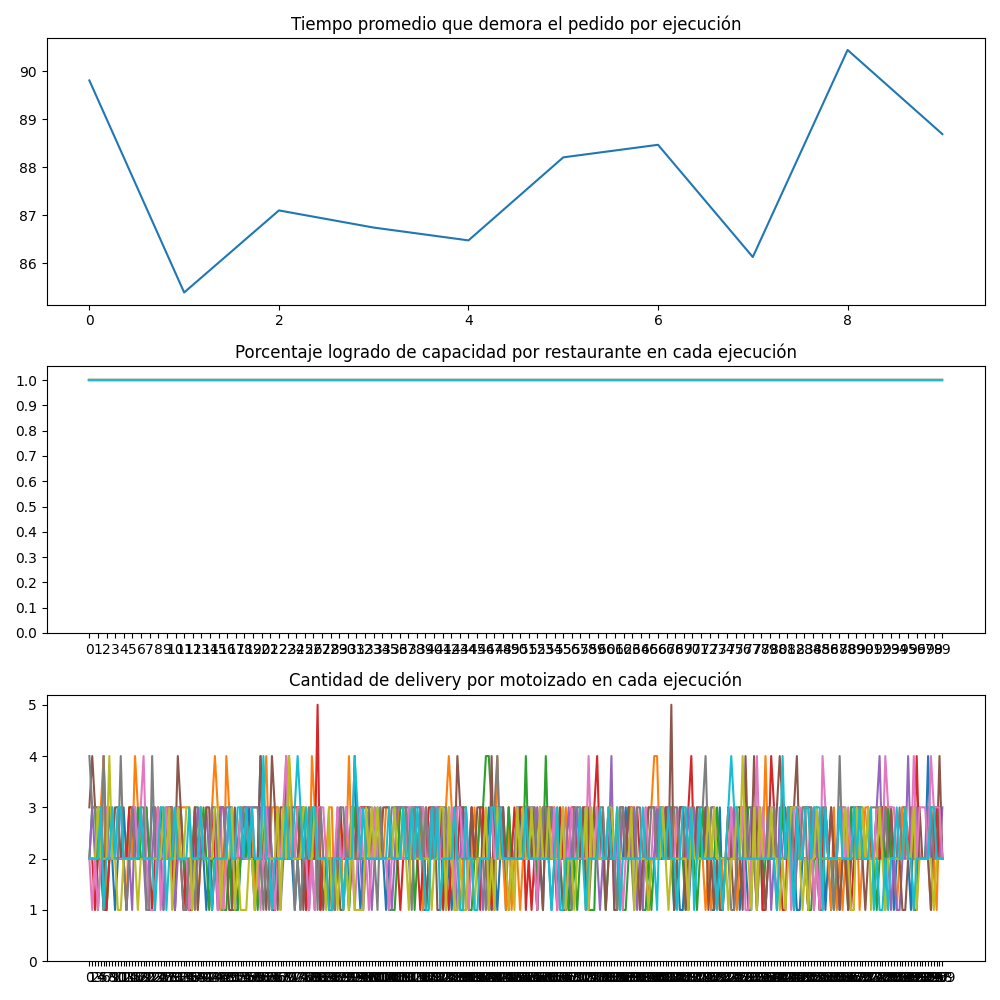
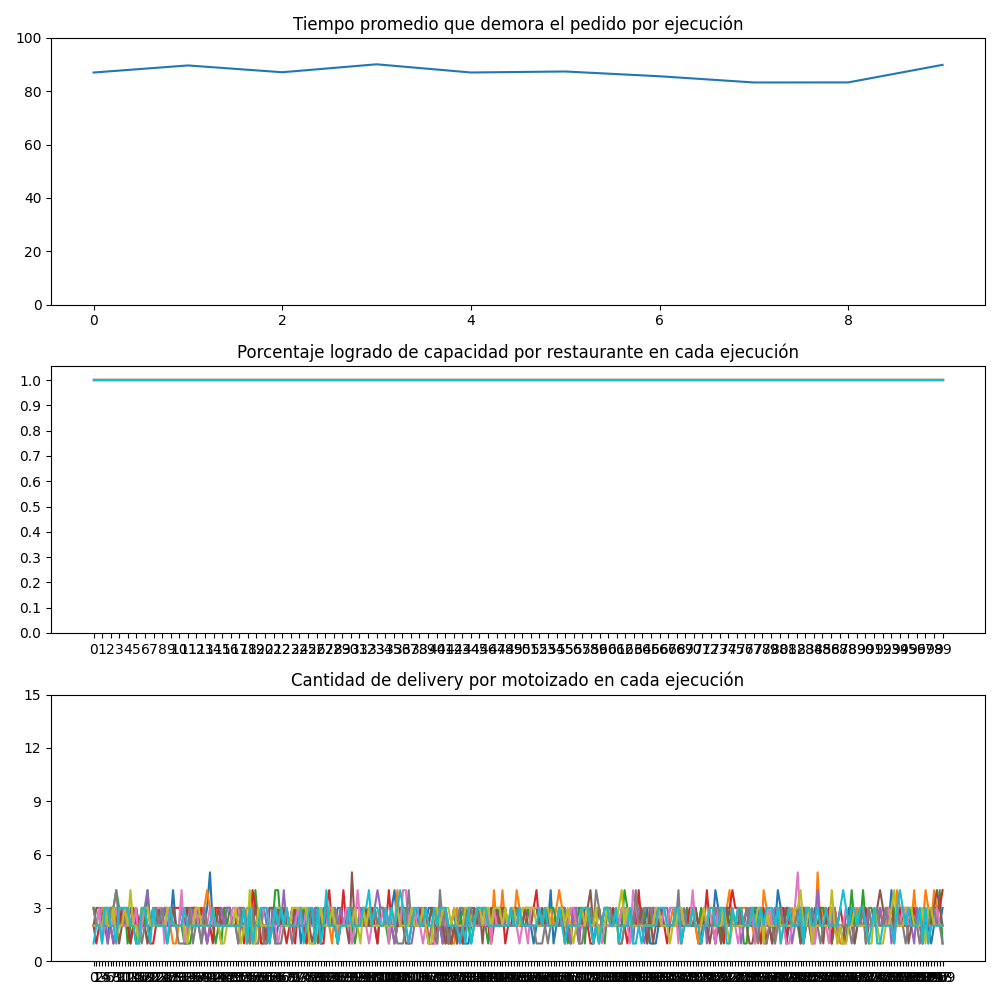
update

diff --git a/main.py b/main.py
@@ -148,12 +148,12 @@ def generate_2d_graph(n, coef=False, delete=True, show=False):
     
     graph.remove_edges_from(list(nx.isolates(graph)))
     graph.remove_nodes_from(list(nx.isolates(graph)))
-    pos = nx.spring_layout(graph, iterations=100)
+    # pos = nx.spring_layout(graph, iterations=100)
 
     graph = graph.to_directed()
 
     if show:
-        nx.draw(graph, pos, node_color='b', node_size=20, with_labels=False)
+        # nx.draw(graph, pos, node_color='b', node_size=20, with_labels=False)
         plt.title('Road Network')
         plt.show()
 
@@ -513,17 +513,21 @@ class App:
 
     def run(self, steps):
 
-        game = Game(800, 600, self.grid, "Hola mundo")
+        #game = Game(800, 600, self.grid, "Hola mundo")
         
         for i in range(steps):
-            time.sleep(0.5)
+
             # Render pygame
+            """
+            time.sleep(0.5)
             game.events_check()
             game.print_system()
             pygame.display.update()
+            """
 
-            print('-' * 30)
-            print(timetostring(i))
+
+            #print('-' * 30)
+            #print(timetostring(i))
 
             for a in agentList:
                 a.decide()
@@ -532,8 +536,10 @@ class App:
 
             
 
+            """
             for a in agentList:
                 a.to_state()
+            """
 
         self.time_food()
         self.time_restaurant()
@@ -575,7 +581,7 @@ def print_general_status(steps, nrestaurants, ndistributors):
     axes[0].set_title('Tiempo promedio que demora el pedido por ejecución')
     x = np.arange(steps)
     axes[0].plot(x, food_timegeneral)
-    axes[0].set_yticks(np.arange(0, max(food_timegeneral)+1, 20))
+    axes[0].set_yticks(np.arange(0, 101, 20))
 
     #restaurant
     axes[1].set_title('Porcentaje logrado de capacidad por restaurante en cada ejecución')
@@ -591,9 +597,9 @@ def print_general_status(steps, nrestaurants, ndistributors):
     max_delivery = 0
     for distributor in distributor_general:
         axes[2].plot(x, distributor)
-        max_delivery = max(max_delivery, max(distributor))
+        #max_delivery = max(max_delivery, max(distributor))
         
-    axes[2].set_yticks(np.arange(0, 8, 1))
+    axes[2].set_yticks(np.arange(0, 16, 3))
     axes[2].set_xticks(x)
 
     fig.tight_layout()

diff --git a/main_min.py b/main_min.py
@@ -528,7 +528,7 @@ class App:
 
     def run(self, steps):
 
-        game = Game(800, 600, self.grid, "Hola mundo")
+        # game = Game(800, 600, self.grid, "Hola mundo")
         
         for i in range(steps):
             # time.sleep(0.5)
@@ -596,7 +596,7 @@ def print_general_status(steps, nrestaurants, ndistributors):
     axes[0].set_title('Tiempo promedio que demora el pedido por ejecución')
     x = np.arange(steps)
     axes[0].plot(x, food_timegeneral)
-    #axes[0].set_yticks(np.arange(0, max(food_timegeneral)+1, 1))
+    axes[0].set_yticks(np.arange(0, 101, 20))
 
     #restaurant
     axes[1].set_title('Porcentaje logrado de capacidad por restaurante en cada ejecución')
@@ -609,12 +609,12 @@ def print_general_status(steps, nrestaurants, ndistributors):
     #distributor
     axes[2].set_title('Cantidad de delivery por motoizado en cada ejecución')
     x = np.arange(ndistributors)
-    max_delivery = 0
+    #max_delivery = 0
     for distributor in distributor_general:
         axes[2].plot(x, distributor)
-        max_delivery = max(max_delivery, max(distributor))
+        #max_delivery = max(max_delivery, max(distributor))
         
-    axes[2].set_yticks(np.arange(0, max_delivery+1))
+    axes[2].set_yticks(np.arange(0, 16, 3))
     axes[2].set_xticks(x)
 
     fig.tight_layout()

diff --git a/main_nearer.py b/main_nearer.py
@@ -527,7 +527,7 @@ class App:
 
     def run(self, steps):
 
-        game = Game(800, 600, self.grid, "Hola mundo")
+        #game = Game(800, 600, self.grid, "Hola mundo")
         
         for i in range(steps):
             # time.sleep(0.5)
@@ -596,7 +596,7 @@ def print_general_status(steps, nrestaurants, ndistributors):
     axes[0].set_title('Tiempo promedio que demora el pedido por ejecución')
     x = np.arange(steps)
     axes[0].plot(x, food_timegeneral)
-    axes[0].set_yticks(np.arange(0, max(food_timegeneral)+1, 30))
+    axes[0].set_yticks(np.arange(0, 101, 20))
 
     #restaurant
     axes[1].set_title('Porcentaje logrado de capacidad por restaurante en cada ejecución')
@@ -614,7 +614,7 @@ def print_general_status(steps, nrestaurants, ndistributors):
         axes[2].plot(x, distributor)
         max_delivery = max(max_delivery, max(distributor))
         
-    axes[2].set_yticks(np.arange(0, max_delivery+1, 8))
+    axes[2].set_yticks(np.arange(0, 16, 3))
     axes[2].set_xticks(x)
 
     fig.tight_layout()
